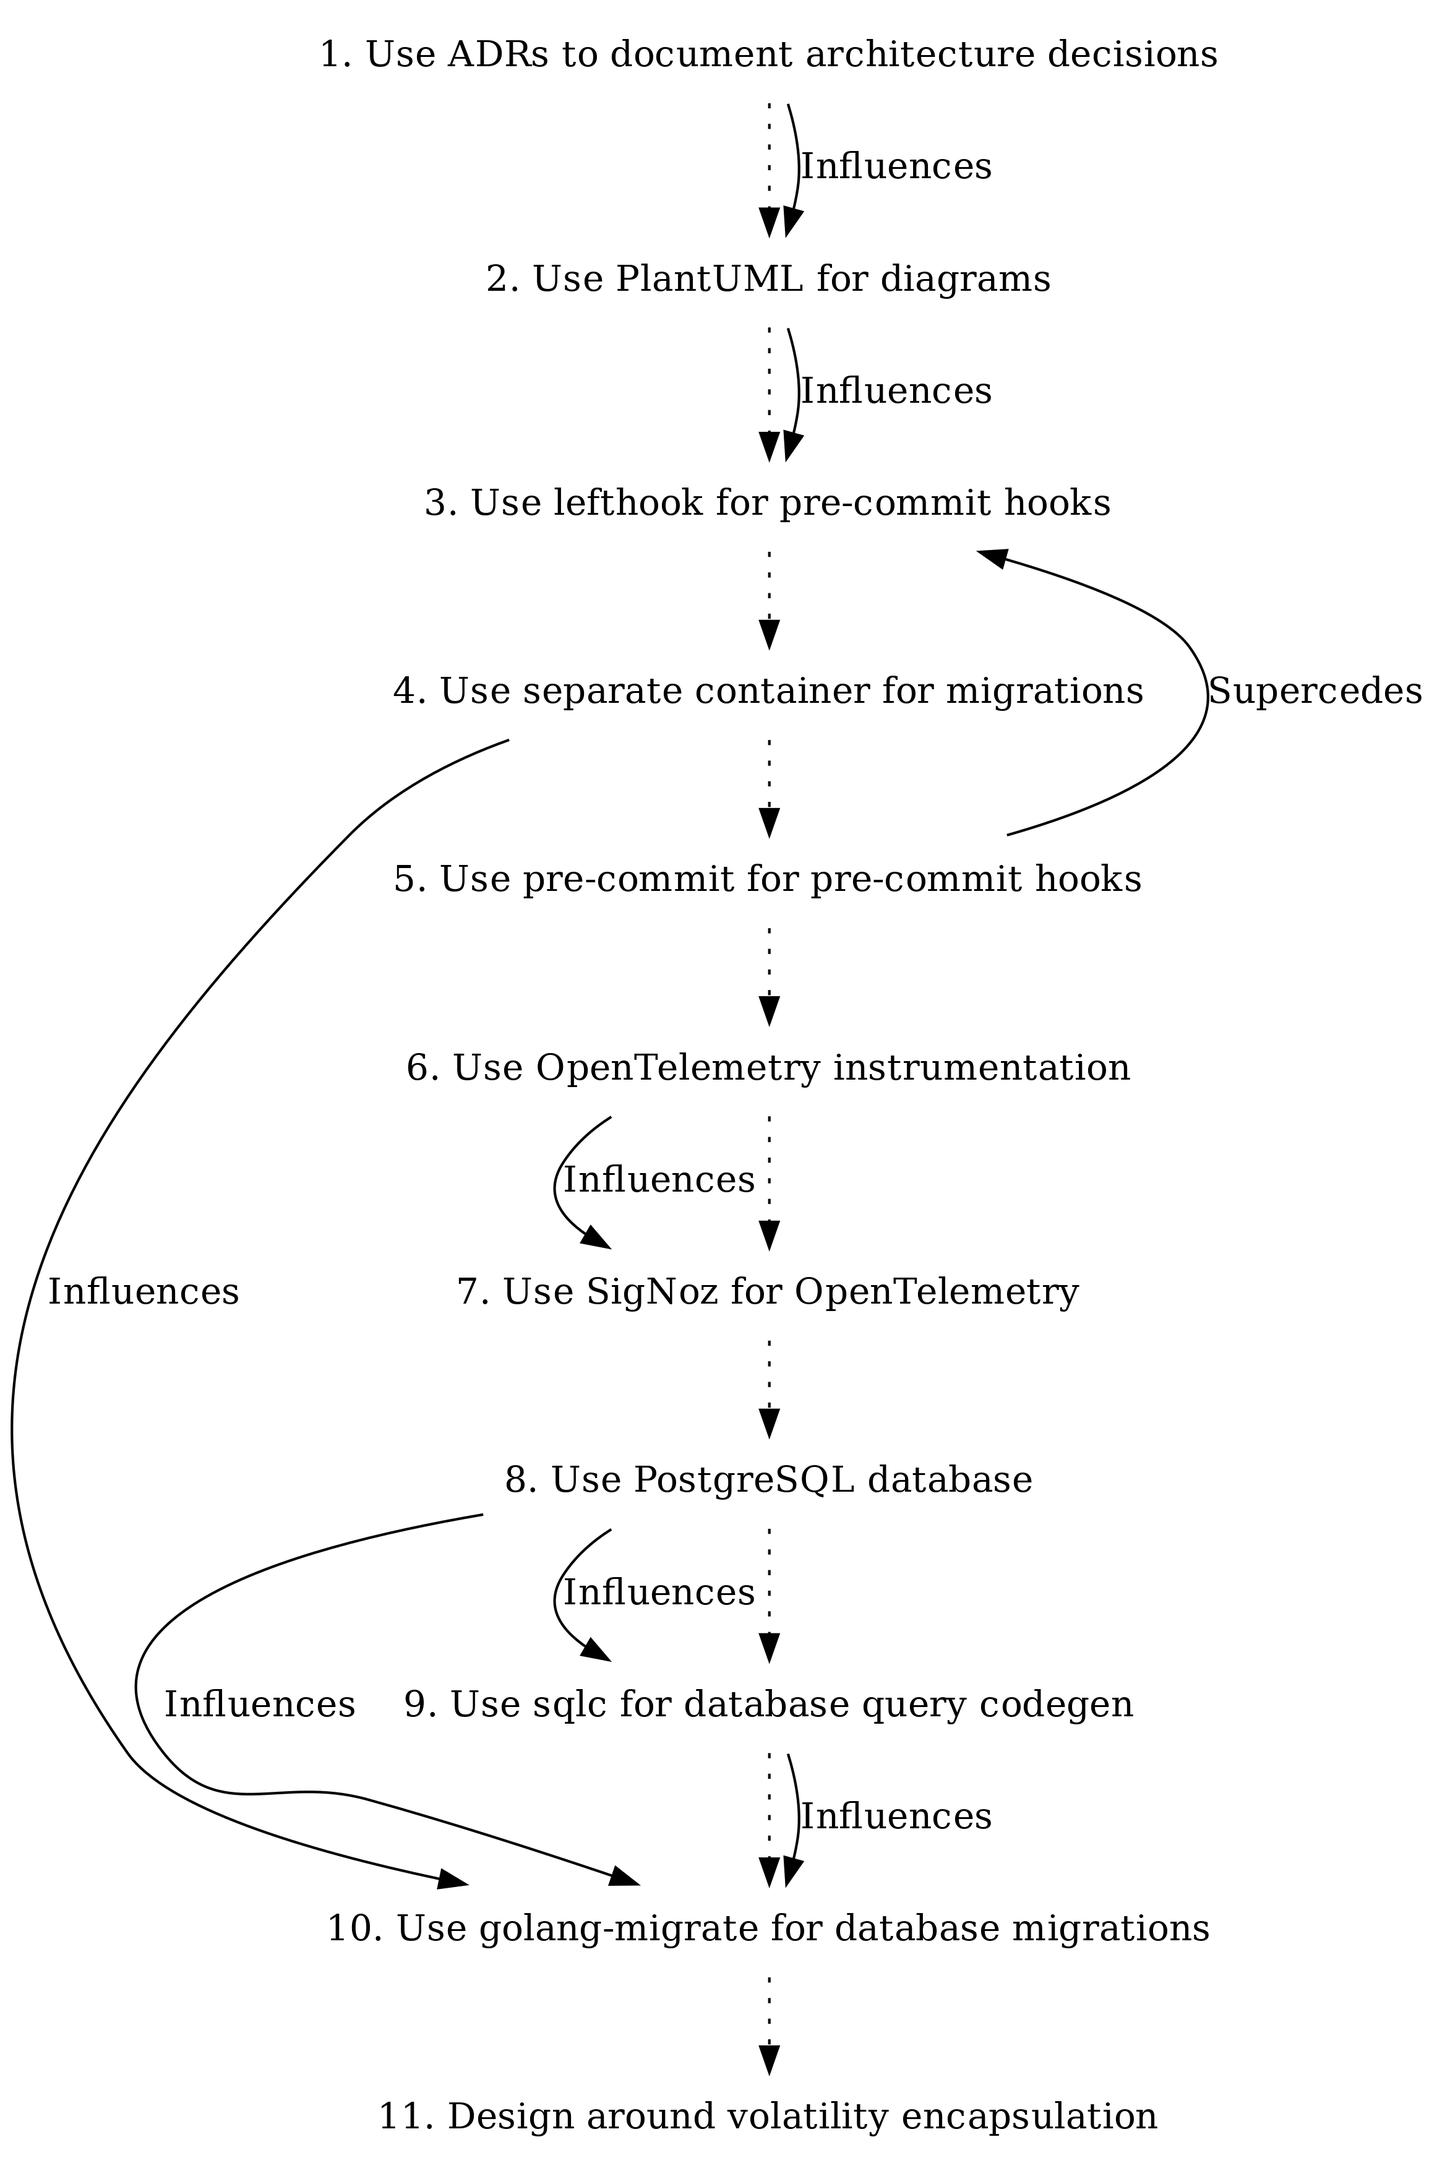
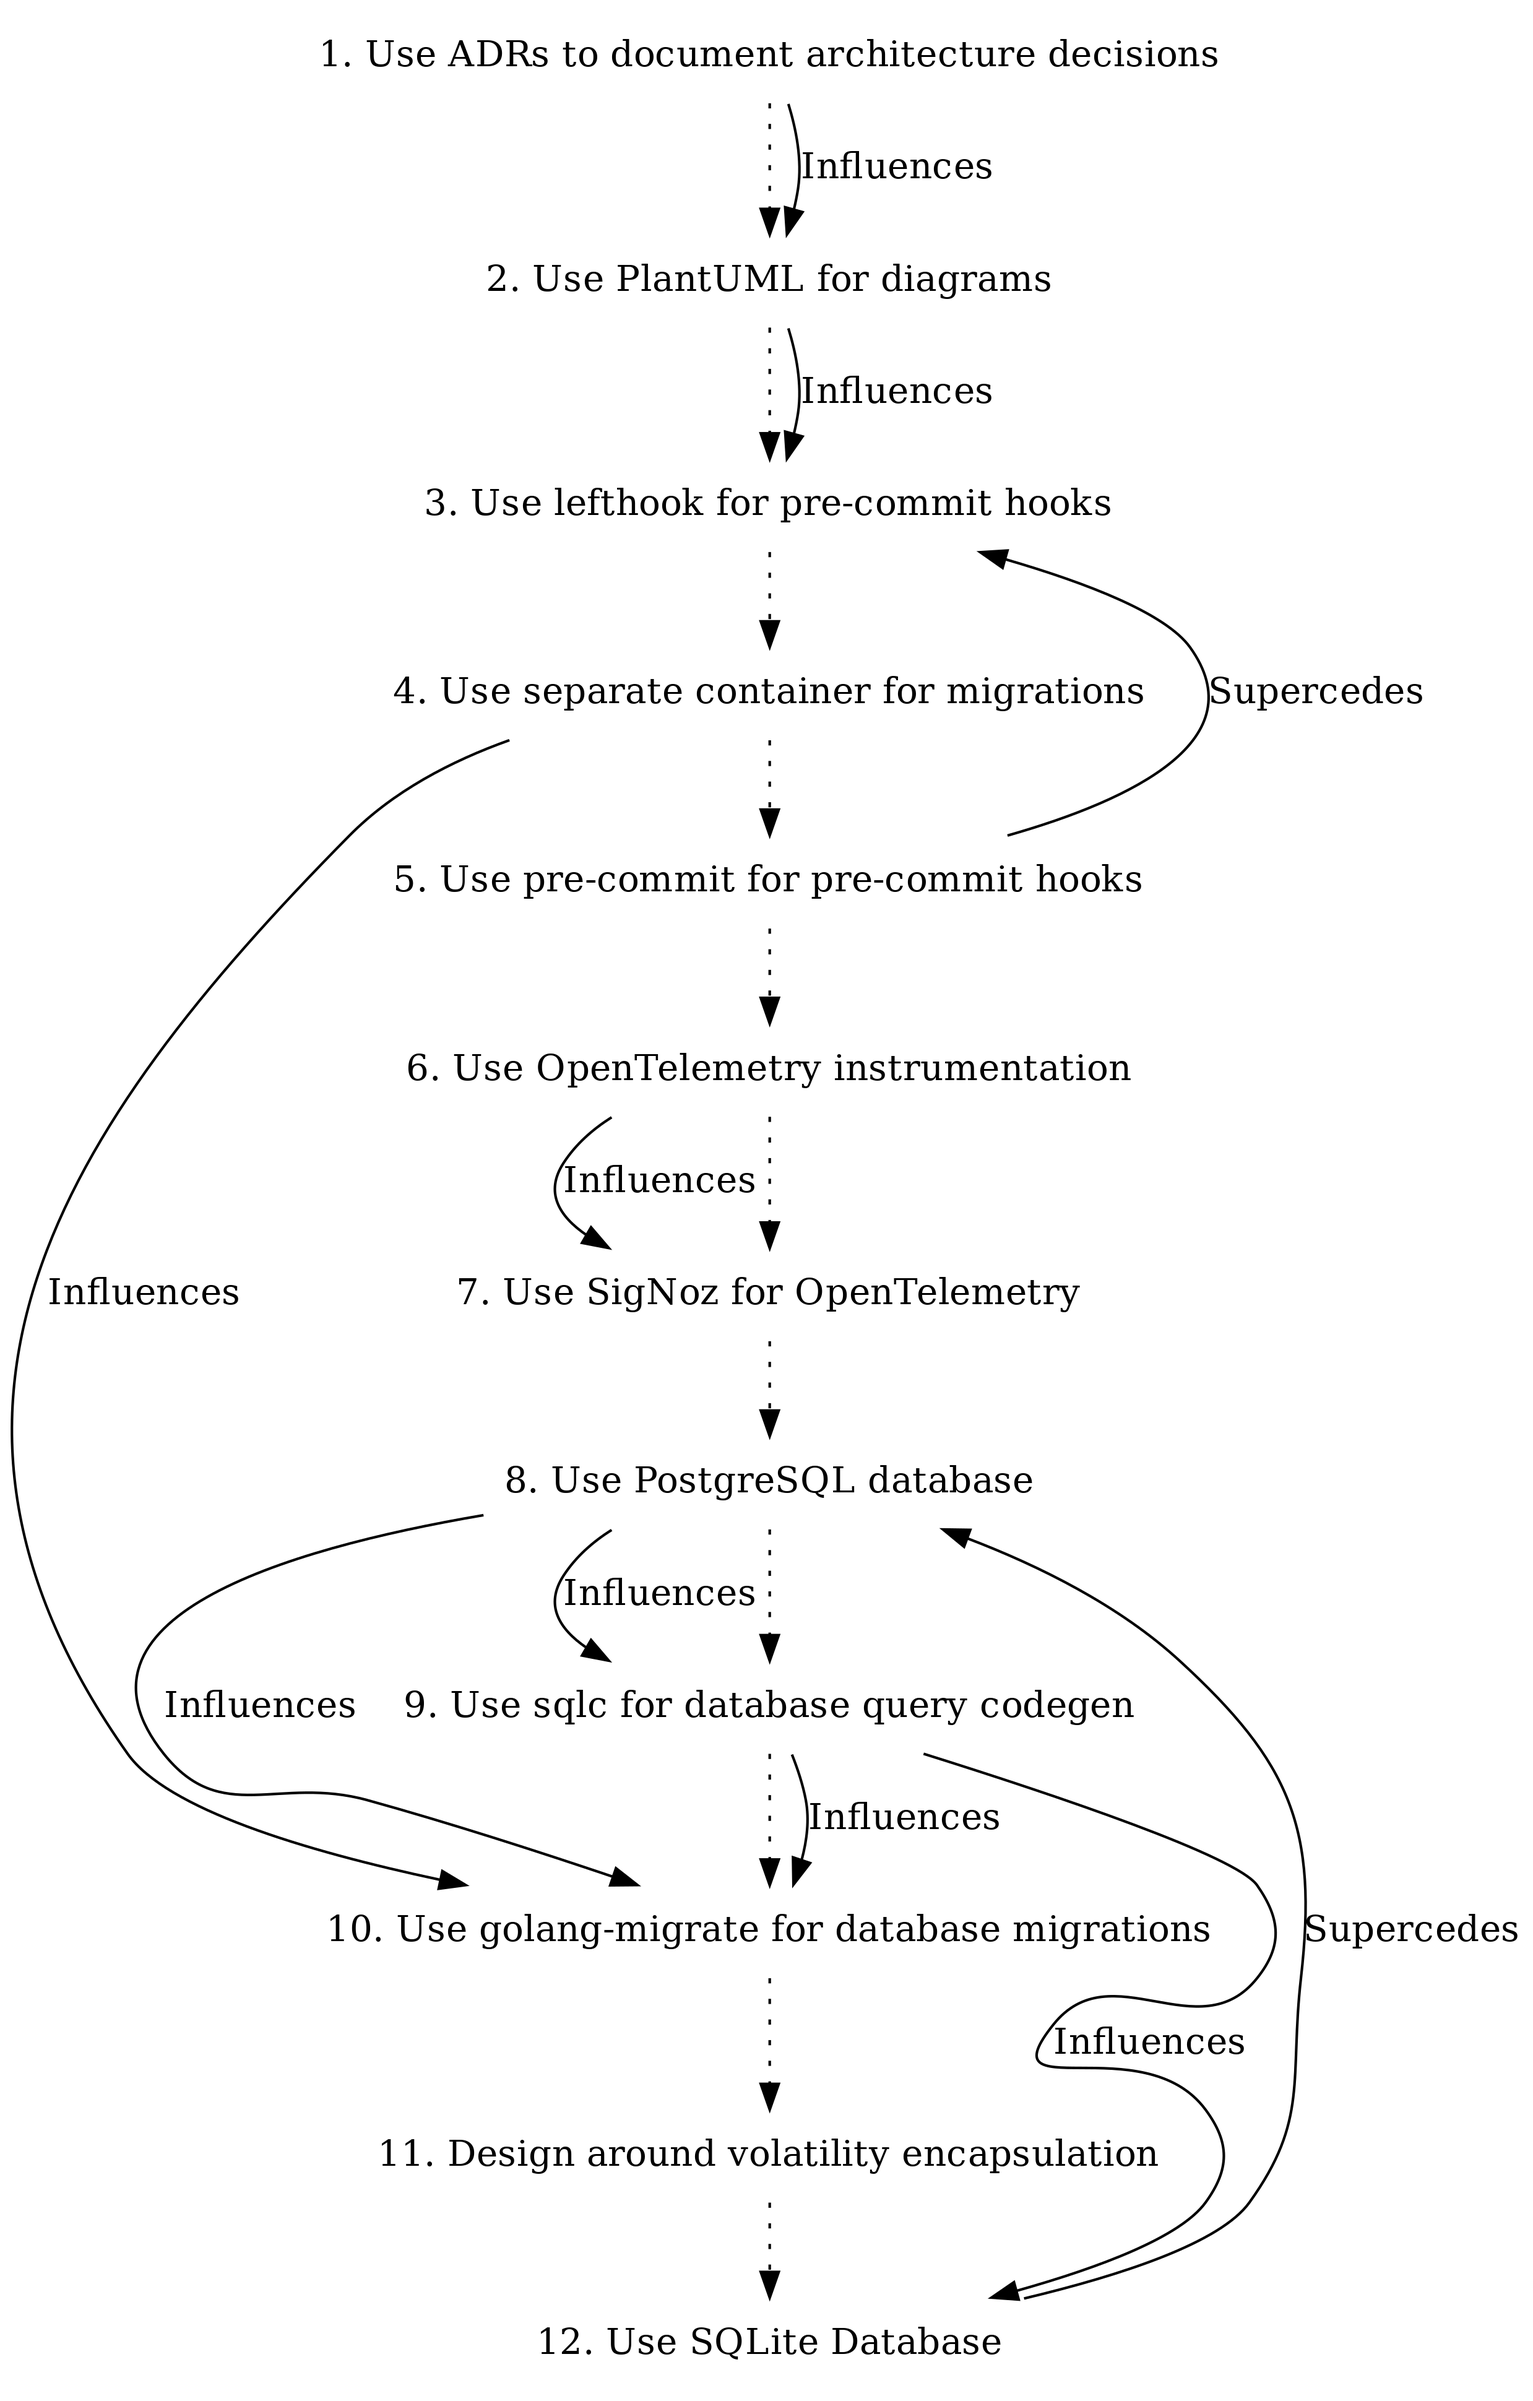
docs: Add ADR for SQLite

diff --git a/docs/adr/0012-use-sqlite-database.md b/docs/adr/0012-use-sqlite-database.md
@@ -1,0 +1,44 @@
+# 12. Use SQLite Database
+
+Date: 2025-10-03
+
+## Status
+
+Accepted
+
+Supercedes [8. Use PostgreSQL database](0008-use-postgresql-database.md)
+
+Influenced by [9. Use sqlc for database query codegen](0009-use-sqlc-for-database-query-codegen.md)
+
+## Context
+
+Currently the deployment and operation of the application has a dependency on external infra in the form
+of a postgres database. While separation is nice, the operational overhead makes us depend on
+docker for the purpose of simply running the app. This complicates the testing setup (we need to use testcontainers/compose).
+The scale that can be handled by postgres is not realistically to be achieved by any installation
+of this app (which will at most have a few users). We are not entirely bound by database interaction layer 
+as we dont use any PG-specific features (apart from schemas which are used only to provide 'namespaces' for db tables
+which we intend to keep loosely coupled - namely idp stuff). Since we use SQLC the cost of migrating to other
+SQL-compatible database is minimized.
+
+## Decision
+
+We will use SQLite database.
+
+## Consequences
+
+The database layer needs to be reimplemented using SQLite flavor of SQL. We need to enable
+sane settings for SQLite (type safety, wal etc).
+
+Migrations need to be integrated in the main binary (as opposed to running migrate separately as it
+is done now).
+
+The infra setup can be simplified - we will be able to ditch docker-compose for the main use case 
+(app without otel). This would allow us to drop testcontainers (at least until we dont use otel in
+tests) and have a single deliverable binary. For portability sake we will keep the Docker image -
+it will be used as a reproducible build environment rather than the main target platform (as well as
+potentially being used to test otel in the future).
+
+Since we dont have any live installations, this should be a painless migration.
+
+We need to consider replacing Postgres schemas either with a naming convention for the tables.

diff --git a/docs/adr/README.md b/docs/adr/README.md
@@ -17,3 +17,4 @@ This is a template injected as an intro to the ADR toc in README.md
 * [9. Use sqlc for database query codegen](0009-use-sqlc-for-database-query-codegen.md)
 * [10. Use golang-migrate for database migrations](0010-use-golang-migrate-for-database-migrations.md)
 * [11. Design around volatility encapsulation](0011-design-around-volatility-encapsulation.md)
+* [12. Use SQLite Database](0012-use-sqlite-database.md)

diff --git a/docs/adr/0009-use-sqlc-for-database-query-codegen.md b/docs/adr/0009-use-sqlc-for-database-query-codegen.md
@@ -10,6 +10,8 @@ Influenced by [8. Use PostgreSQL database](0008-use-postgresql-database.md)
 
 Influences [10. Use golang-migrate for database migrations](0010-use-golang-migrate-for-database-migrations.md)
 
+Influences [12. Use SQLite Database](0012-use-sqlite-database.md)
+
 ## Context
 
 There are multiple approaches to writing applications that use a SQL database:

diff --git a/docs/adr/0008-use-postgresql-database.md b/docs/adr/0008-use-postgresql-database.md
@@ -4,11 +4,11 @@ Date: 2025-07-18
 
 ## Status
 
-Accepted
-
 Influences [9. Use sqlc for database query codegen](0009-use-sqlc-for-database-query-codegen.md)
 
 Influences [10. Use golang-migrate for database migrations](0010-use-golang-migrate-for-database-migrations.md)
+
+Superceded by [12. Use SQLite Database](0012-use-sqlite-database.md)
 
 ## Context
 
